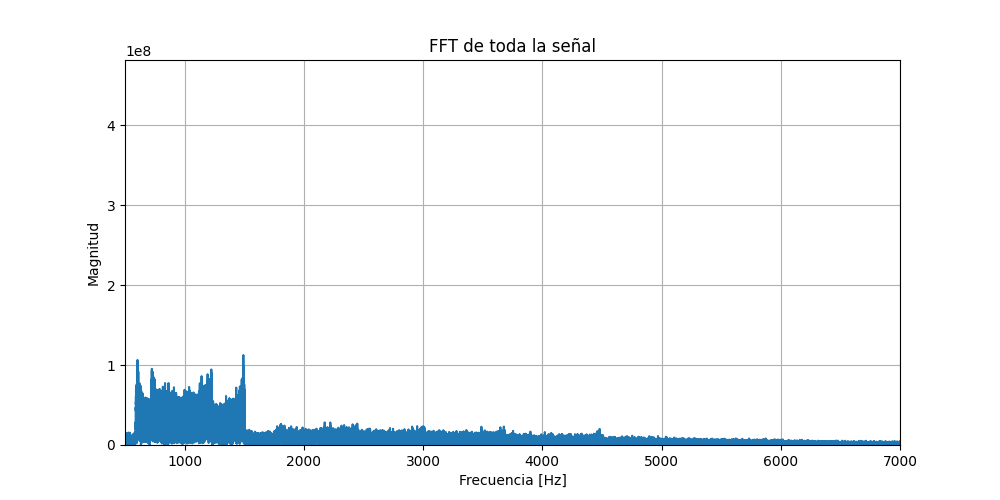
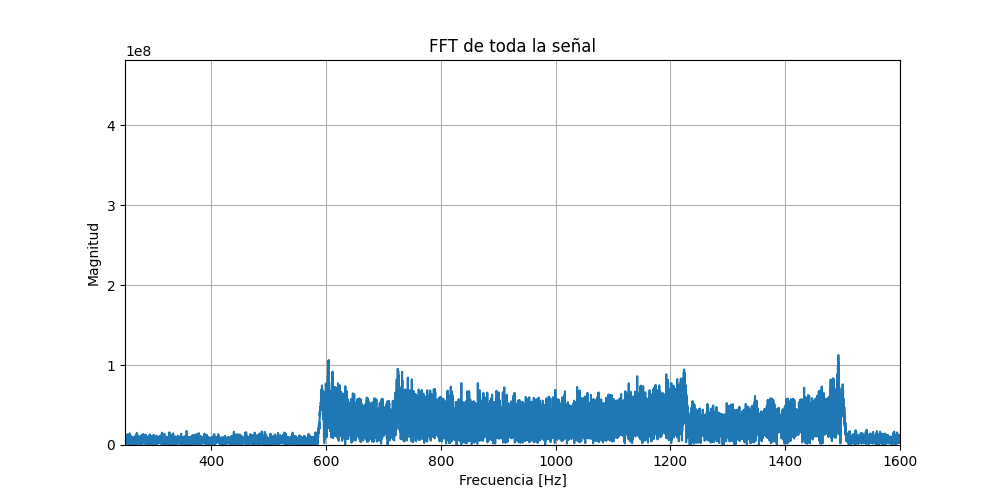
Consigna 4

Changed region(s): [[0.124, 0.72, 0.93, 0.93]]

diff --git a/AN-TP1/consigna_4/scripts/espectrograma.py b/AN-TP1/consigna_4/scripts/espectrograma.py
@@ -1,0 +1,66 @@
+import numpy as np
+from scipy.io import wavfile
+from scipy.signal import stft
+import matplotlib.pyplot as plt
+import os
+from pathlib import Path
+
+def espectrograma_sirena2(archivo, nperseg=1024, noverlap=512, directorio_img='imagenes/', 
+                         directorio_audio='audios/', prefix='stft_sirena2', save=True):
+    """
+    Espectrograma STFT sirena2 + rastreo frecuencia fundamental.
+    
+    Parámetros óptimos:
+    - nperseg=1024: ventana Hann ~23ms (buen compromiso tiempo-frec)
+    - noverlap=512: 50% overlap (suave)
+    """
+    path = f"{directorio_audio}/{archivo}"
+    fs, signal = wavfile.read(path)
+    signal = signal.astype(np.float32) / np.max(np.abs(signal))
+    
+    # STFT
+    f, t, Zxx = stft(signal, fs=fs, nperseg=nperseg, noverlap=noverlap, 
+                     window='hann', nfft=nperseg)
+    
+    # Espectrograma (dB)
+    S_db = 20 * np.log10(np.abs(Zxx) + 1e-10)
+    
+    plt.figure(figsize=(15, 6))
+    plt.pcolormesh(t, f/1000, S_db, shading='gouraud', cmap='viridis')
+    plt.title(f'Espectrograma STFT - {archivo} (nperseg={nperseg}, overlap={noverlap/ nperseg*100:.0f}%)')
+    plt.ylabel('Frecuencia [kHz]')
+    plt.xlabel('Tiempo [s]')
+    plt.colorbar(label='Intensidad [dB]')
+    plt.ylim(0, 3)  # Zoom 0-3kHz (sirena)
+    
+    if save:
+        os.makedirs(directorio_img, exist_ok=True)
+        filename = f"{directorio_img}/{prefix}.png"
+        plt.savefig(filename, dpi=200, bbox_inches='tight')
+        print(f"✅ Espectrograma guardado: {filename}")
+        plt.close()
+    else:
+        plt.tight_layout()
+        plt.show()
+    
+    # Rastreo visual frecuencia fundamental (MANUAL)
+    print("📊 ANÁLISIS:")
+    print(f"fs: {fs}Hz | Duración: {len(signal)/fs:.1f}s")
+    print(f"Freq bins: 0-{fs/2/1000:.0f}kHz | Tiempo: {t[-1]:.1f}s")
+    print("🔍 RASTREA VISUALMENTE: ridge central sirena ~1kHz → punto medio oscilación")
+    
+    return f, t, S_db, fs
+
+def calcular_velocidad_doppler(f_promedio, f_emision=1000, c_sonido=343):
+    """
+    Velocidad móvil Doppler (aprox).
+    f_promedio: freq media observada (punto medio oscilación)
+    f_emision: freq nominal sirena (~1000Hz)
+    """
+    delta_f = f_promedio - f_emision
+    v = (c_sonido * delta_f) / f_emision  # Aprox. v << c
+    return v * 3.6  # m/s → km/h
+
+# Uso
+if __name__ == "__main__":
+    espectrograma_sirena2('sirena_2.wav', nperseg=1024, noverlap=512)

diff --git a/AN-TP1/consigna_4/main_consigna4.py b/AN-TP1/consigna_4/main_consigna4.py
@@ -1,0 +1,20 @@
+from config import AUDIOS_DIR, IMG_DIR
+from scripts.espectrograma import espectrograma_sirena2, calcular_velocidad_doppler
+
+def main():
+    print("🔬 === CONSIGNA 4: ESPECTROGRAMA STFT SIRENA4 ===")
+    
+    # STFT sirena2
+    f, t, S_db, fs = espectrograma_sirena2('sirena_2.wav',
+                                         directorio_audio=str(AUDIOS_DIR),
+                                         directorio_img=str(IMG_DIR),
+                                         prefix='c2_stft_sirena2',
+                                         save=True)
+    
+    # MANUAL: mide freq media punto medio oscilación (ej: 950Hz)
+    f_promedio = 1100  # ← RASTREA VISUALMENTE espectrograma
+    v_kmh = calcular_velocidad_doppler(f_promedio)
+    print(f"🚑 VELOCIDAD: {v_kmh:.1f} km/h (f_promedio={f_promedio}Hz)")
+
+if __name__ == "__main__":
+    main()

diff --git a/AN-TP1/consigna_4/config.py b/AN-TP1/consigna_4/config.py
@@ -1,0 +1,16 @@
+"""
+Configuración paths absolutos para Consigna 1.
+"""
+
+from pathlib import Path
+
+# Raíz proyecto (dos niveles arriba de consigna_1/)
+BASE_DIR = Path(__file__).parent.parent  # /tp-procesamiento-senales/
+AUDIOS_DIR = BASE_DIR / 'audios'
+IMG_DIR = BASE_DIR / 'imagenes' / 'consigna_4'
+
+# Verificar existencia
+if not AUDIOS_DIR.exists():
+    raise FileNotFoundError(f"❌ Carpeta audios no encontrada: {AUDIOS_DIR}")
+
+print(f"✅ Config: Audios={AUDIOS_DIR} | Imágenes={IMG_DIR}")

diff --git a/AN-TP1/consigna_2/main_consigna2.py b/AN-TP1/consigna_2/main_consigna2.py
@@ -14,8 +14,8 @@ def main():
     sirena_1="AN-TP1/audios/sirena_1.wav"
     
     # Aplicar FFT y graficar
-    inf = 0
-    sup = 3500
+    inf = 900
+    sup = 1100
     fft(sirena_1, ventana=0, xinf=inf, xsup=sup, yinf=0, ysup=None)
     fft(sirena_1, ventana=0.5, xinf=inf, xsup=sup, yinf=0, ysup=None)
 

diff --git a/AN-TP1/consigna_3/main_consigna3.py b/AN-TP1/consigna_3/main_consigna3.py
@@ -13,8 +13,8 @@ def main():
     sirena_2="AN-TP1/audios/sirena_2.wav"
     
     # Aplicar FFT y graficar
-    xinf = 500
-    xsup = 7000
+    xinf = 250
+    xsup = 1600
     yinf=0
     ysup=None
     fft(sirena_2, ventana=0, xinf=xinf, xsup=xsup, yinf=yinf, ysup=ysup)
